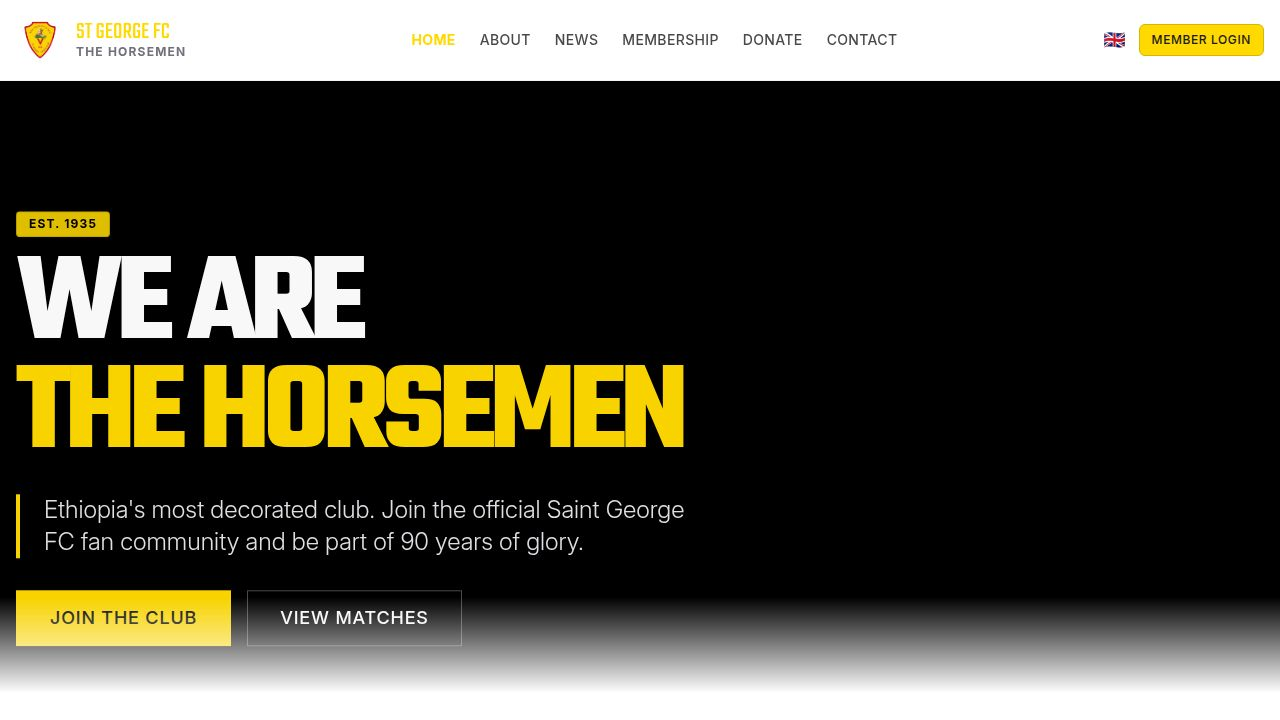
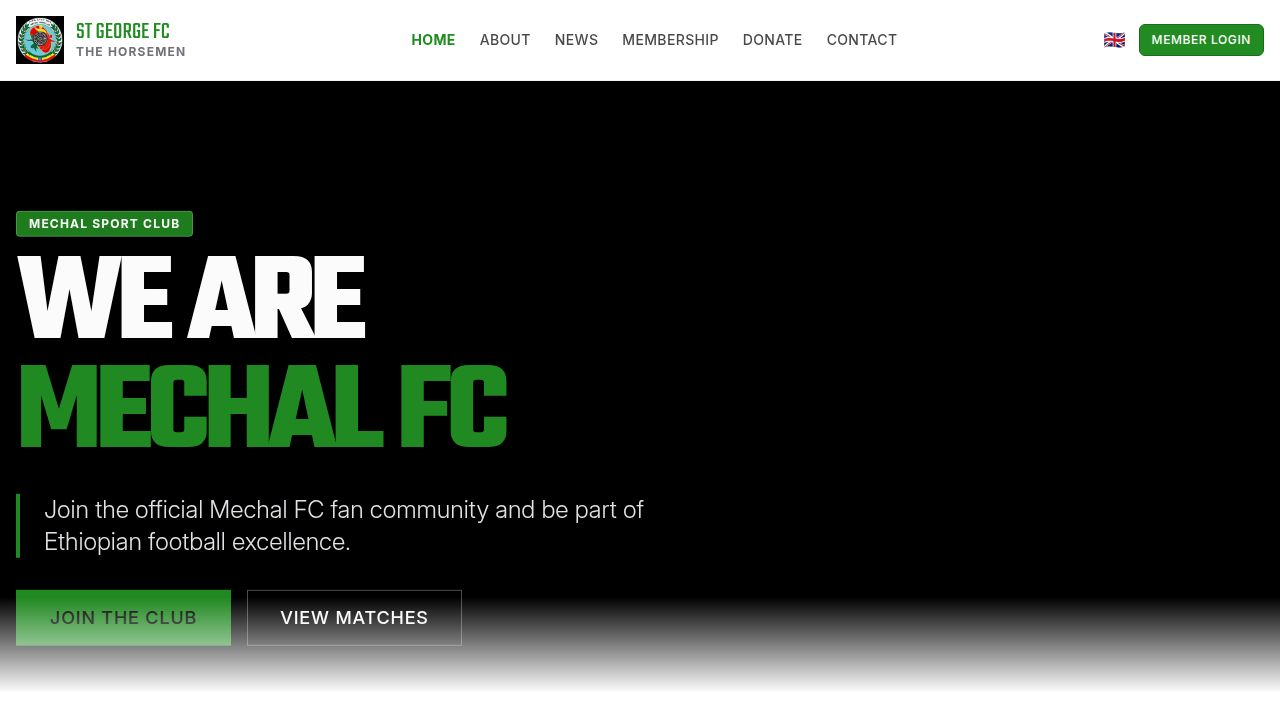
Update app branding and colors to reflect Mechal FC
Update the application's branding, colors, and relevant text content to reflect the Mechal FC team, including logo, hero section, about page, contact information, home page news, and merchandise shop.

Replit-Commit-Author: Agent
Replit-Commit-Session-Id: 67add769-c736-4da7-a76a-72b1e0172a46
Replit-Commit-Checkpoint-Type: full_checkpoint
Replit-Commit-Event-Id: 205e7ad5-cbb9-4cc4-be6f-6511cfefe650
Replit-Commit-Screenshot-Url: https://storage.googleapis.com/screenshot-production-us-central1/31c59f1c-091e-4bbf-ae00-b08a0b51f5ab/67add769-c736-4da7-a76a-72b1e0172a46/lldlEpV
Replit-Helium-Checkpoint-Created: true

diff --git a/client/src/pages/About.tsx b/client/src/pages/About.tsx
@@ -10,12 +10,12 @@ export default function About() {
 
   const aboutContent = {
     pageTitle: (Array.isArray(settings) ? settings.find((s: any) => s.key === 'about.pageTitle')?.value : null) || 'Our History',
-    pageSubtitle: (Array.isArray(settings) ? settings.find((s: any) => s.key === 'about.pageSubtitle')?.value : null) || "90 years of Ethiopian football excellence and national pride.",
-    sectionTitle: (Array.isArray(settings) ? settings.find((s: any) => s.key === 'about.sectionTitle')?.value : null) || 'The Horsemen',
-    sectionContent: (Array.isArray(settings) ? settings.find((s: any) => s.key === 'about.sectionContent')?.value : null) || "Saint George Sport Club (Amharic: ቅዱስ ጊዮርጊስ ስፖርት ክለብ), also known as Kidus Giorgis, is Ethiopia's most prestigious professional football club based in Addis Ababa. Founded in December 1935 by George Ducas and Ayale Atnash during Italy's fascist occupation, the club became a symbol of Ethiopian nationalism and resistance.",
-    historyTitle: (Array.isArray(settings) ? settings.find((s: any) => s.key === 'about.historyTitle')?.value : null) || 'The Legend of St George',
-    historyContent1: (Array.isArray(settings) ? settings.find((s: any) => s.key === 'about.historyContent1')?.value : null) || "Saint George is the oldest and most successful football club in Ethiopia. The club plays its home matches at the historic Addis Ababa Stadium with a capacity of 35,000 passionate fans. Known as 'The Horsemen', the team wears the iconic yellow and red colors.",
-    historyContent2: (Array.isArray(settings) ? settings.find((s: any) => s.key === 'about.historyContent2')?.value : null) || "With 16 Ethiopian Premier League titles and 8 Ethiopian Cup victories, Saint George stands as the most decorated club in Ethiopian football history. The Yidnekachew Tessema Youth Academy in Bishoftu continues to develop future stars, funded by supporters including Mohammed Hussein Al Amoudi.",
+    pageSubtitle: (Array.isArray(settings) ? settings.find((s: any) => s.key === 'about.pageSubtitle')?.value : null) || "Ethiopian football excellence and national pride.",
+    sectionTitle: (Array.isArray(settings) ? settings.find((s: any) => s.key === 'about.sectionTitle')?.value : null) || 'Mechal Sport Club',
+    sectionContent: (Array.isArray(settings) ? settings.find((s: any) => s.key === 'about.sectionContent')?.value : null) || "Mechal Sport Club (Amharic: መቻል ስፖርት ክለብ) is a professional football club based in Ethiopia. The club represents excellence in Ethiopian football and is committed to developing young talent and achieving success on the pitch.",
+    historyTitle: (Array.isArray(settings) ? settings.find((s: any) => s.key === 'about.historyTitle')?.value : null) || 'The Legacy of Mechal FC',
+    historyContent1: (Array.isArray(settings) ? settings.find((s: any) => s.key === 'about.historyContent1')?.value : null) || "Mechal FC is a proud Ethiopian football club with a passionate fan base. The club plays its home matches with dedicated supporters cheering them on to victory.",
+    historyContent2: (Array.isArray(settings) ? settings.find((s: any) => s.key === 'about.historyContent2')?.value : null) || "Mechal FC continues to build on its legacy of Ethiopian football excellence. The club is dedicated to developing young talent and achieving success both domestically and in continental competitions.",
     missionTitle: (Array.isArray(settings) ? settings.find((s: any) => s.key === 'about.missionTitle')?.value : null) || 'Our Mission',
   };
 
@@ -32,7 +32,7 @@ export default function About() {
         <div className="prose prose-lg max-w-none">
           <div className="flex flex-col md:flex-row gap-8 items-center mb-12 not-prose">
             <div className="w-full md:w-1/2">
-              <img src={ASSETS.logo} alt="Saint George FC Crest" className="w-48 h-48 object-contain mx-auto" />
+              <img src={ASSETS.logo} alt="Mechal FC Crest" className="w-48 h-48 object-contain mx-auto" />
             </div>
             <div className="w-full md:w-1/2">
               <h2 className="font-heading text-3xl font-bold mb-4">{aboutContent.sectionTitle}</h2>
@@ -53,9 +53,9 @@ export default function About() {
           <h3>{aboutContent.missionTitle}</h3>
           <ul className="list-disc pl-6 space-y-2">
             <li>To represent Ethiopia with pride and excellence on all football stages.</li>
-            <li>To develop young talent through the Yidnekachew Tessema Youth Academy.</li>
+            <li>To develop young talent through our youth academy programs.</li>
             <li>To compete at the highest level in domestic and continental competitions.</li>
-            <li>To preserve our legacy as a symbol of Ethiopian nationalism and sporting excellence.</li>
+            <li>To build a legacy of sporting excellence and community pride.</li>
           </ul>
         </div>
       </div>

diff --git a/client/src/pages/Home.tsx b/client/src/pages/Home.tsx
@@ -14,7 +14,7 @@ export default function Home() {
   });
 
   const homeContent = {
-    newsTitle: (Array.isArray(settings) ? settings.find((s: any) => s.key === 'home.newsTitle')?.value : null) || 'Latest From The Horsemen',
+    newsTitle: (Array.isArray(settings) ? settings.find((s: any) => s.key === 'home.newsTitle')?.value : null) || 'Latest From Mechal FC',
     newsSubtitle: (Array.isArray(settings) ? settings.find((s: any) => s.key === 'home.newsSubtitle')?.value : null) || 'Stay updated with match reports, club announcements, and exclusive interviews.',
     stat1Value: (Array.isArray(settings) ? settings.find((s: any) => s.key === 'home.stat1Value')?.value : null) || '16',
     stat1Label: (Array.isArray(settings) ? settings.find((s: any) => s.key === 'home.stat1Label')?.value : null) || 'Premier League Titles',
@@ -22,7 +22,7 @@ export default function Home() {
     stat2Label: (Array.isArray(settings) ? settings.find((s: any) => s.key === 'home.stat2Label')?.value : null) || 'Ethiopian Cup Victories',
     stat3Value: (Array.isArray(settings) ? settings.find((s: any) => s.key === 'home.stat3Value')?.value : null) || '1935',
     stat3Label: (Array.isArray(settings) ? settings.find((s: any) => s.key === 'home.stat3Label')?.value : null) || 'Club Founded',
-    ctaTitle: (Array.isArray(settings) ? settings.find((s: any) => s.key === 'home.ctaTitle')?.value : null) || 'Become A Horseman',
+    ctaTitle: (Array.isArray(settings) ? settings.find((s: any) => s.key === 'home.ctaTitle')?.value : null) || 'Join Mechal FC',
     ctaSubtitle: (Array.isArray(settings) ? settings.find((s: any) => s.key === 'home.ctaSubtitle')?.value : null) || "Join the official fan club today. Get exclusive access, voting rights, and digital membership cards. Your support builds our future.",
   };
 
@@ -90,11 +90,11 @@ export default function Home() {
                 <ShoppingBag className="h-16 w-16 text-primary" />
                 <div>
                   <h2 className="font-heading text-3xl md:text-4xl font-bold mb-2">Shop Our Merchandise</h2>
-                  <p className="text-lg opacity-90">Show your support with official St George gear and apparel!</p>
+                  <p className="text-lg opacity-90">Show your support with official Mechal FC gear and apparel!</p>
                 </div>
               </div>
               <a href="https://tinamart.com/products?banner_id=20" target="_blank" rel="noopener noreferrer">
-                <Button size="lg" className="bg-primary text-black hover:bg-primary/90 font-display uppercase tracking-wider h-14 px-8 text-lg">
+                <Button size="lg" className="bg-primary text-white hover:bg-primary/90 font-display uppercase tracking-wider h-14 px-8 text-lg">
                   Shop Now <ArrowRight className="ml-2 h-5 w-5" />
                 </Button>
               </a>

diff --git a/client/src/pages/Contact.tsx b/client/src/pages/Contact.tsx
@@ -13,20 +13,20 @@ export default function Contact() {
   });
 
   const contactInfo = {
-    clubName: (Array.isArray(settings) ? settings.find((s: any) => s.key === 'contact.clubName')?.value : null) || 'Saint George Sport Association',
-    address1: (Array.isArray(settings) ? settings.find((s: any) => s.key === 'contact.address1')?.value : null) || 'P.O. Box 737, Near Addis Ababa Stadium',
-    address2: (Array.isArray(settings) ? settings.find((s: any) => s.key === 'contact.address2')?.value : null) || 'Addis Ababa, Ethiopia',
-    phone1: (Array.isArray(settings) ? settings.find((s: any) => s.key === 'contact.phone1')?.value : null) || '+251 114 663679',
-    phone2: (Array.isArray(settings) ? settings.find((s: any) => s.key === 'contact.phone2')?.value : null) || '+251 114 168317',
-    email1: (Array.isArray(settings) ? settings.find((s: any) => s.key === 'contact.email1')?.value : null) || 'info@stgeorgefc.com',
-    email2: (Array.isArray(settings) ? settings.find((s: any) => s.key === 'contact.email2')?.value : null) || 'press@stgeorgefc.com',
+    clubName: (Array.isArray(settings) ? settings.find((s: any) => s.key === 'contact.clubName')?.value : null) || 'Mechal Sport Club',
+    address1: (Array.isArray(settings) ? settings.find((s: any) => s.key === 'contact.address1')?.value : null) || 'Addis Ababa',
+    address2: (Array.isArray(settings) ? settings.find((s: any) => s.key === 'contact.address2')?.value : null) || 'Ethiopia',
+    phone1: (Array.isArray(settings) ? settings.find((s: any) => s.key === 'contact.phone1')?.value : null) || '+251 114 000000',
+    phone2: (Array.isArray(settings) ? settings.find((s: any) => s.key === 'contact.phone2')?.value : null) || '+251 114 000001',
+    email1: (Array.isArray(settings) ? settings.find((s: any) => s.key === 'contact.email1')?.value : null) || 'info@mechalfc.com',
+    email2: (Array.isArray(settings) ? settings.find((s: any) => s.key === 'contact.email2')?.value : null) || 'press@mechalfc.com',
   };
 
   return (
     <PublicLayout>
       <div className="bg-zinc-50">
         <div className="bg-primary py-12">
-          <div className="container px-4 text-center text-black">
+          <div className="container px-4 text-center text-white">
             <h1 className="font-heading text-5xl font-bold mb-4">Get In Touch</h1>
             <p className="text-xl opacity-90">We want to hear from you.</p>
           </div>

diff --git a/client/src/components/Hero.tsx b/client/src/components/Hero.tsx
@@ -23,20 +23,20 @@ export default function Hero() {
           transition={{ duration: 0.8, ease: "easeOut" }}
           className="max-w-3xl"
         >
-          <span className="inline-block py-1 px-3 mb-4 rounded bg-primary/90 text-black text-xs font-bold tracking-widest uppercase border border-primary-foreground/20">
-            Est. 1935
+          <span className="inline-block py-1 px-3 mb-4 rounded bg-primary/90 text-white text-xs font-bold tracking-widest uppercase border border-primary-foreground/20">
+            Mechal Sport Club
           </span>
           <h1 className="font-heading text-6xl md:text-8xl lg:text-9xl font-bold text-white leading-[0.85] mb-6 uppercase tracking-tighter">
             We Are <br />
-            <span className="text-primary drop-shadow-lg">The Horsemen</span>
+            <span className="text-primary drop-shadow-lg">Mechal FC</span>
           </h1>
           <p className="text-lg md:text-2xl text-gray-200 mb-8 max-w-2xl font-light border-l-4 border-primary pl-6">
-            Ethiopia's most decorated club. Join the official Saint George FC fan community and be part of 90 years of glory.
+            Join the official Mechal FC fan community and be part of Ethiopian football excellence.
           </p>
           
           <div className="flex flex-col sm:flex-row gap-4">
             <Link href="/membership">
-              <Button size="lg" className="h-14 px-8 text-lg font-display uppercase tracking-wider bg-primary hover:bg-primary/90 text-black rounded-none border-2 border-transparent hover:border-primary hover:bg-transparent hover:text-primary transition-all duration-300">
+              <Button size="lg" className="h-14 px-8 text-lg font-display uppercase tracking-wider bg-primary hover:bg-primary/90 text-white rounded-none border-2 border-transparent hover:border-primary hover:bg-transparent hover:text-primary transition-all duration-300">
                 {t('hero.cta')}
               </Button>
             </Link>

diff --git a/client/src/index.css b/client/src/index.css
@@ -85,11 +85,11 @@
   --popover: 0 0% 100%;
   --popover-foreground: 0 0% 10%;
 
-  /* St George Yellow #FFD700 -> HSL ~51 100% 50% */
-  --primary: 51 100% 50%;
-  --primary-foreground: 0 0% 10%;
+  /* Mechal Green #228B22 -> HSL ~120 61% 34% */
+  --primary: 120 61% 34%;
+  --primary-foreground: 0 0% 100%;
 
-  /* St George Red #DC143C -> HSL ~348 83% 47% */
+  /* Mechal Red #DC143C -> HSL ~348 83% 47% */
   --secondary: 348 83% 47%;
   --secondary-foreground: 0 0% 100%;
 
@@ -104,12 +104,12 @@
 
   --border: 240 5.9% 90%;
   --input: 240 5.9% 90%;
-  --ring: 51 100% 50%;
+  --ring: 120 61% 34%;
 
-  --chart-1: 51 100% 50%;
+  --chart-1: 120 61% 34%;
   --chart-2: 348 83% 47%;
-  --chart-3: 30 40% 30%;
-  --chart-4: 51 90% 70%;
+  --chart-3: 48 100% 50%;
+  --chart-4: 120 50% 50%;
   --chart-5: 348 70% 60%;
 
   --sidebar: 0 0% 98%;
@@ -191,8 +191,8 @@
   --popover: 240 10% 3.9%;
   --popover-foreground: 0 0% 98%;
 
-  --primary: 51 100% 50%;
-  --primary-foreground: 0 0% 10%;
+  --primary: 120 61% 34%;
+  --primary-foreground: 0 0% 100%;
 
   --secondary: 348 83% 47%;
   --secondary-foreground: 0 0% 100%;
@@ -208,12 +208,12 @@
 
   --border: 240 3.7% 15.9%;
   --input: 240 3.7% 15.9%;
-  --ring: 51 100% 50%;
+  --ring: 120 61% 34%;
 
-  --chart-1: 51 100% 50%;
+  --chart-1: 120 61% 34%;
   --chart-2: 348 83% 47%;
-  --chart-3: 30 40% 35%;
-  --chart-4: 51 90% 70%;
+  --chart-3: 48 100% 50%;
+  --chart-4: 120 50% 50%;
   --chart-5: 348 70% 60%;
   
   --sidebar: 240 5.9% 10%;

diff --git a/server/seed.ts b/server/seed.ts
@@ -34,11 +34,11 @@ async function seed() {
     if (smsTemplates.length === 0) {
       await storage.createSmsTemplate({
         name: "Welcome",
-        message: "Welcome to St George FC Fan Club! Your membership number is {{membershipNumber}}. Thank you for your support!"
+        message: "Welcome to Mechal FC Fan Club! Your membership number is {{membershipNumber}}. Thank you for your support!"
       });
       await storage.createSmsTemplate({
         name: "Renewal Reminder",
-        message: "Dear {{name}}, your St George FC membership expires on {{expiryDate}}. Renew now to continue enjoying exclusive benefits!"
+        message: "Dear {{name}}, your Mechal FC membership expires on {{expiryDate}}. Renew now to continue enjoying exclusive benefits!"
       });
       console.log("Created default SMS templates");
     }
@@ -47,7 +47,7 @@ async function seed() {
     if (!brandingHeaderText) {
       await storage.upsertSetting({
         key: "branding.headerText",
-        value: "ST GEORGE",
+        value: "MECHAL FC",
         description: "Header text displayed in navbar"
       });
     }
@@ -56,7 +56,7 @@ async function seed() {
     if (!brandingHeaderSubtext) {
       await storage.upsertSetting({
         key: "branding.headerSubtext",
-        value: "THE HORSEMEN",
+        value: "SPORT CLUB",
         description: "Subtext displayed below header in navbar"
       });
     }

diff --git a/client/src/pages/Membership.tsx b/client/src/pages/Membership.tsx
@@ -14,7 +14,7 @@ export default function Membership() {
         <div className="container px-4">
           <h1 className="font-heading text-5xl md:text-7xl font-bold mb-6">Join The Family</h1>
           <p className="text-xl max-w-2xl mx-auto opacity-90">
-            Support St George FC directly and enjoy exclusive benefits. Your membership fuels our success on the pitch.
+            Support Mechal FC directly and enjoy exclusive benefits. Your membership fuels our success on the pitch.
           </p>
         </div>
       </div>

diff --git a/client/src/lib/mockData.ts b/client/src/lib/mockData.ts
@@ -1,5 +1,3 @@
-import stGeorgeLogo from '@assets/st_george_logo.png';
-
 export const LANGUAGES = [
   { code: 'en', label: 'English', flag: '🇬🇧' },
   { code: 'am', label: 'አማርኛ', flag: '🇪🇹' },
@@ -93,7 +91,7 @@ export const NEWS_POSTS = [
 ];
 
 export const ASSETS = {
-  logo: stGeorgeLogo,
+  logo: '/mechal-logo.jpg',
   hero: 'https://images.unsplash.com/photo-1508098682722-e99c43a406b2?w=1920&q=80',
 };
 
